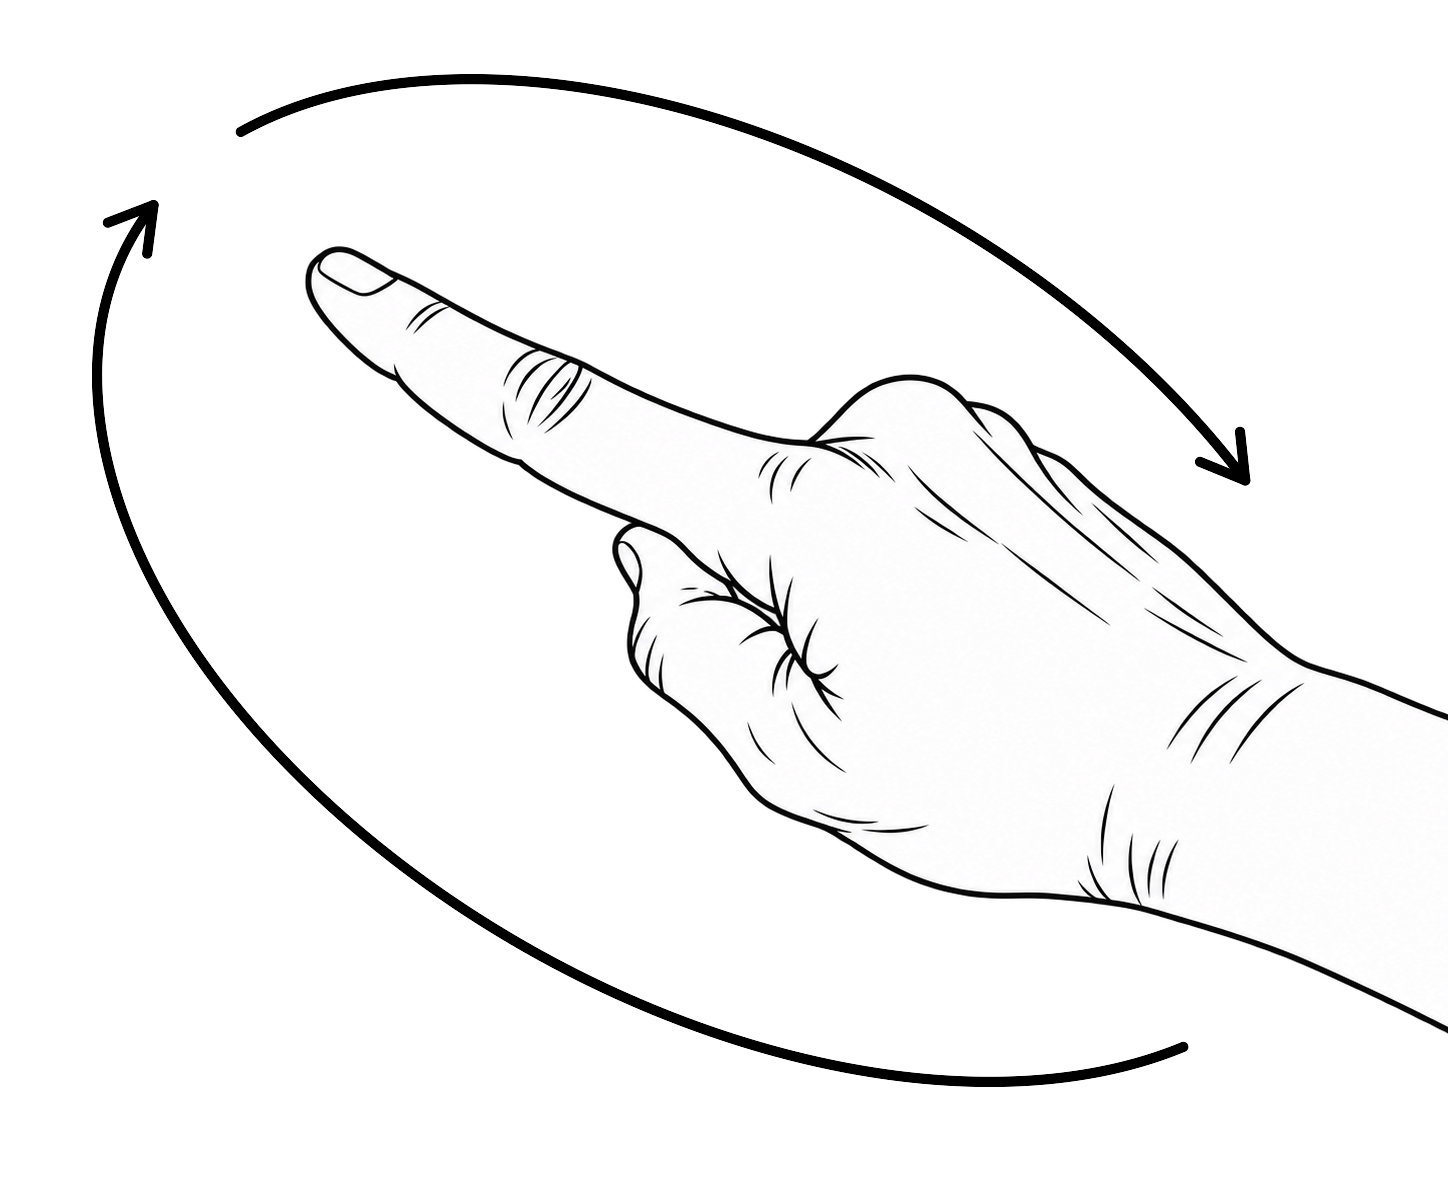
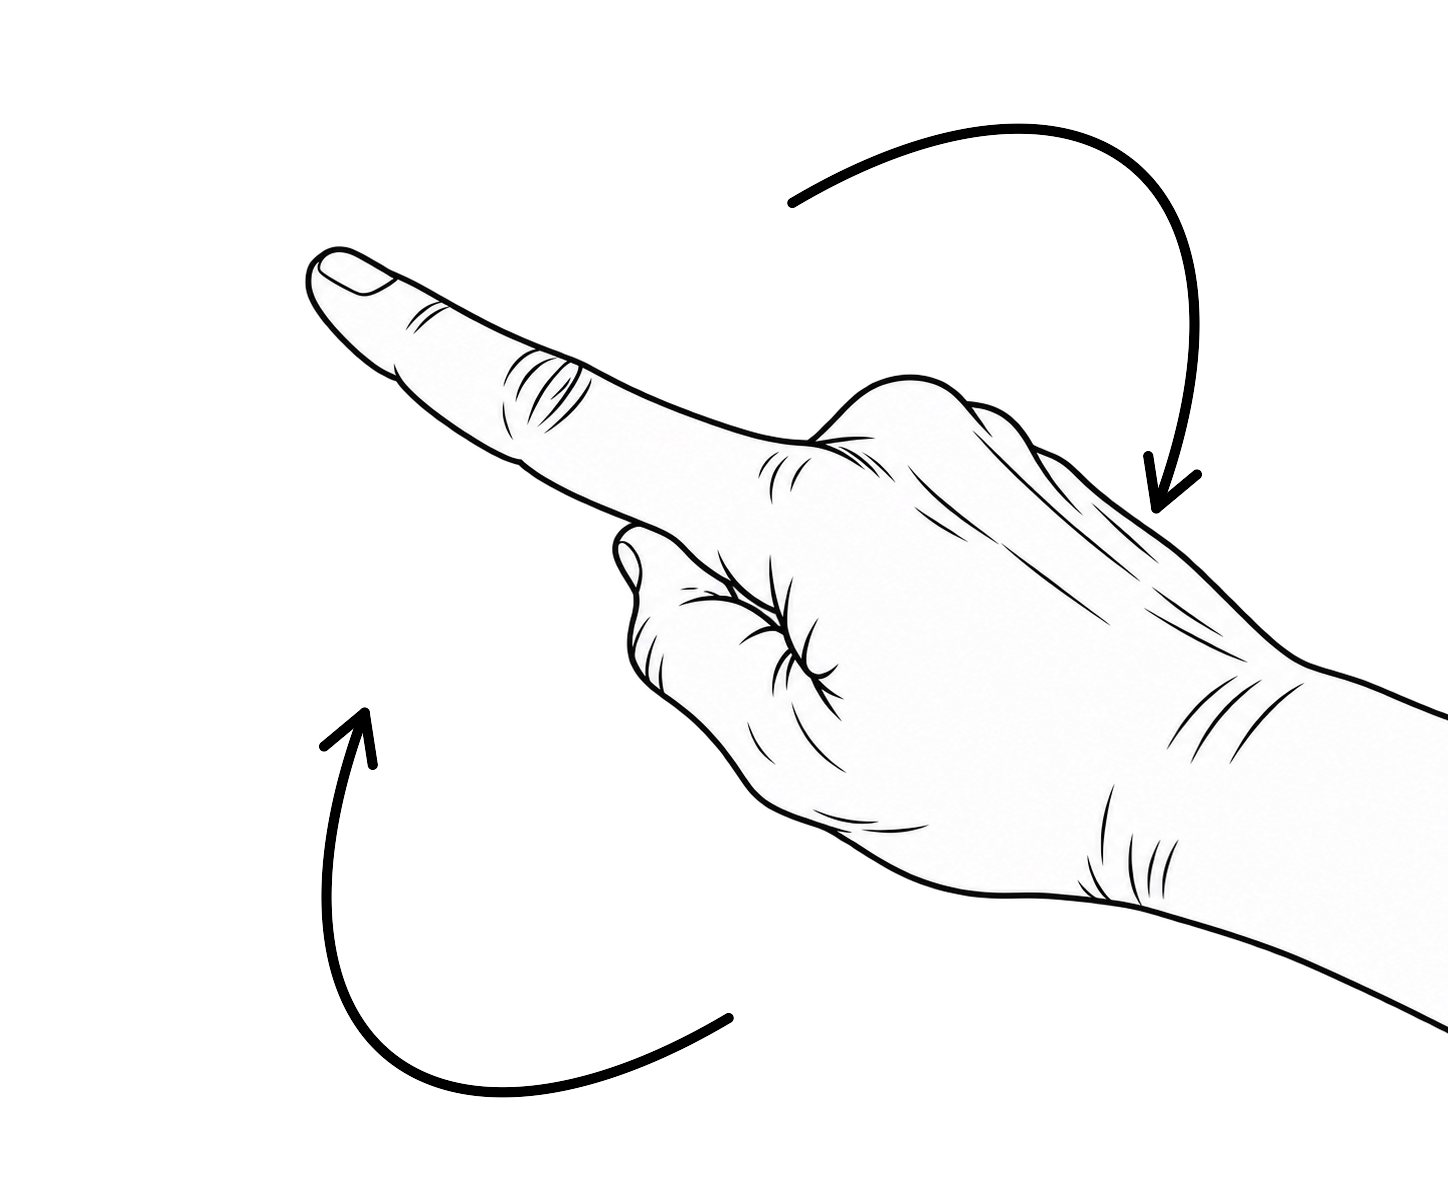
Correct reload arrows perspective to follow forearm axis

diff --git a/README.md b/README.md
@@ -19,7 +19,7 @@
 | 04 | 下一步 `next` | <img src="domestic/realistic/realistic-04-next-0-complete.png" width="180" alt="domestic 04 next"> <br> 食指向右伸直，其餘四指收合（手背側） | <img src="international/realistic/realistic-04-next-0-complete.png" width="180" alt="international 04 next"> <br> 食指向右伸直，其餘四指收合（手背側） |
 | 05 | 放大 `zoom-in` | <img src="domestic/realistic/realistic-05-zoom-in-0-complete.png" width="180" alt="domestic 05 zoom-in"> <br> 五指由收合逐漸張開（手背朝自己，拇指在左側） | <img src="international/realistic/realistic-05-zoom-in-0-complete.png" width="180" alt="international 05 zoom-in"> <br> 拇指與食指由接觸分開，其餘三指收合 |
 | 06 | 縮小 `zoom-out` | <img src="domestic/realistic/realistic-06-zoom-out-0-complete.png" width="180" alt="domestic 06 zoom-out"> <br> 五指由張開逐漸收合（手背朝自己，拇指在左側） | <img src="international/realistic/realistic-06-zoom-out-0-complete.png" width="180" alt="international 06 zoom-out"> <br> 拇指與食指由分開到接觸，其餘三指收合 |
-| 07 | 重播 `reload` | <img src="domestic/realistic/realistic-07-reload-0-complete.png" width="180" alt="domestic 07 reload"> <br> 整手伸展，沿順時針軌跡畫圈；單一右手與同一傾斜橢圓上的兩段順時針弧箭頭（保留兩處缺口） | <img src="international/realistic/realistic-07-reload-0-complete.png" width="180" alt="international 07 reload"> <br> 其餘手指收合，食指順時針畫圈（手背側）；單一右手與同一傾斜橢圓上的兩段順時針弧箭頭（保留兩處缺口） |
+| 07 | 重播 `reload` | <img src="domestic/realistic/realistic-07-reload-0-complete.png" width="180" alt="domestic 07 reload"> <br> 整手伸展，沿順時針軌跡畫圈；單一右手與同一透視橢圓上的兩段順時針弧箭頭（保留兩處缺口） | <img src="international/realistic/realistic-07-reload-0-complete.png" width="180" alt="international 07 reload"> <br> 其餘手指收合，食指順時針畫圈（手背側）；單一右手與同一透視橢圓上的兩段順時針弧箭頭（保留兩處缺口） |
 | 08 | 截圖 `capture` | <img src="domestic/realistic/realistic-08-capture-0-complete.png" width="180" alt="domestic 08 capture"> <br> 拇指與食指由分開到接觸捏合，其餘三指收合 | <img src="international/realistic/realistic-08-capture-0-complete.png" width="180" alt="international 08 capture"> <br> 拇指與食指各彎一個指節，指尖仍分開；其餘三指收合 |
 | 09 | 關閉 `close` | <img src="domestic/realistic/realistic-09-close-0-complete.png" width="180" alt="domestic 09 close"> <br> 五指收合成拳 | <img src="international/realistic/realistic-09-close-0-complete.png" width="180" alt="international 09 close"> <br> 五指收合成拳 |
 
@@ -41,6 +41,6 @@
 
 依研究者提供的原九宮格（本國組）、黃色表格（非本國組）與 [HackMD 實拍](https://hackmd.io/vlS1KejZR96oRrO-DFbUiA) 核對。統一使用本人看自己右手的第一人稱視角，逐張核對掌背面與拇指位置。
 
-`realistic-` 為解剖線稿 PNG，以研究者重附的五張產圖為風格基準，補圖使用 OpenAI imagegen。左側灰線表示起始姿態、右側黑線表示結束姿態，動態圖在同一畫布左右分開，左灰表示先比的姿態、右黑表示後比的姿態；不使用表示前後順序的向右箭頭；重播依研究者實拍右手呈現單一姿態，手腕帶動整手旋轉，使用同一傾斜橢圓上的兩段順時針弧箭頭，保留兩處缺口，黑線描白邊；開放式尖端與弧線相連，不使用實心三角形。PNG 具有透明外背景與白色手部內底。原 SVG 與舊 PNG 保留供追溯，README 預覽引用新版本。
+`realistic-` 為解剖線稿 PNG，以研究者重附的五張產圖為風格基準，補圖使用 OpenAI imagegen。左側灰線表示起始姿態、右側黑線表示結束姿態，動態圖在同一畫布左右分開，左灰表示先比的姿態、右黑表示後比的姿態；不使用表示前後順序的向右箭頭；重播依研究者實拍右手呈現單一姿態，手腕帶動整手旋轉，使用同一透視橢圓上的兩段順時針弧箭頭，保留兩處缺口，黑線描白邊；開放式尖端與弧線相連，不使用實心三角形。PNG 具有透明外背景與白色手部內底。原 SVG 與舊 PNG 保留供追溯，README 預覽引用新版本。
 
 解剖線稿 PNG 位於 `domestic/realistic/` 與 `international/realistic/`，與各組 `png/` 資料夾同層。
